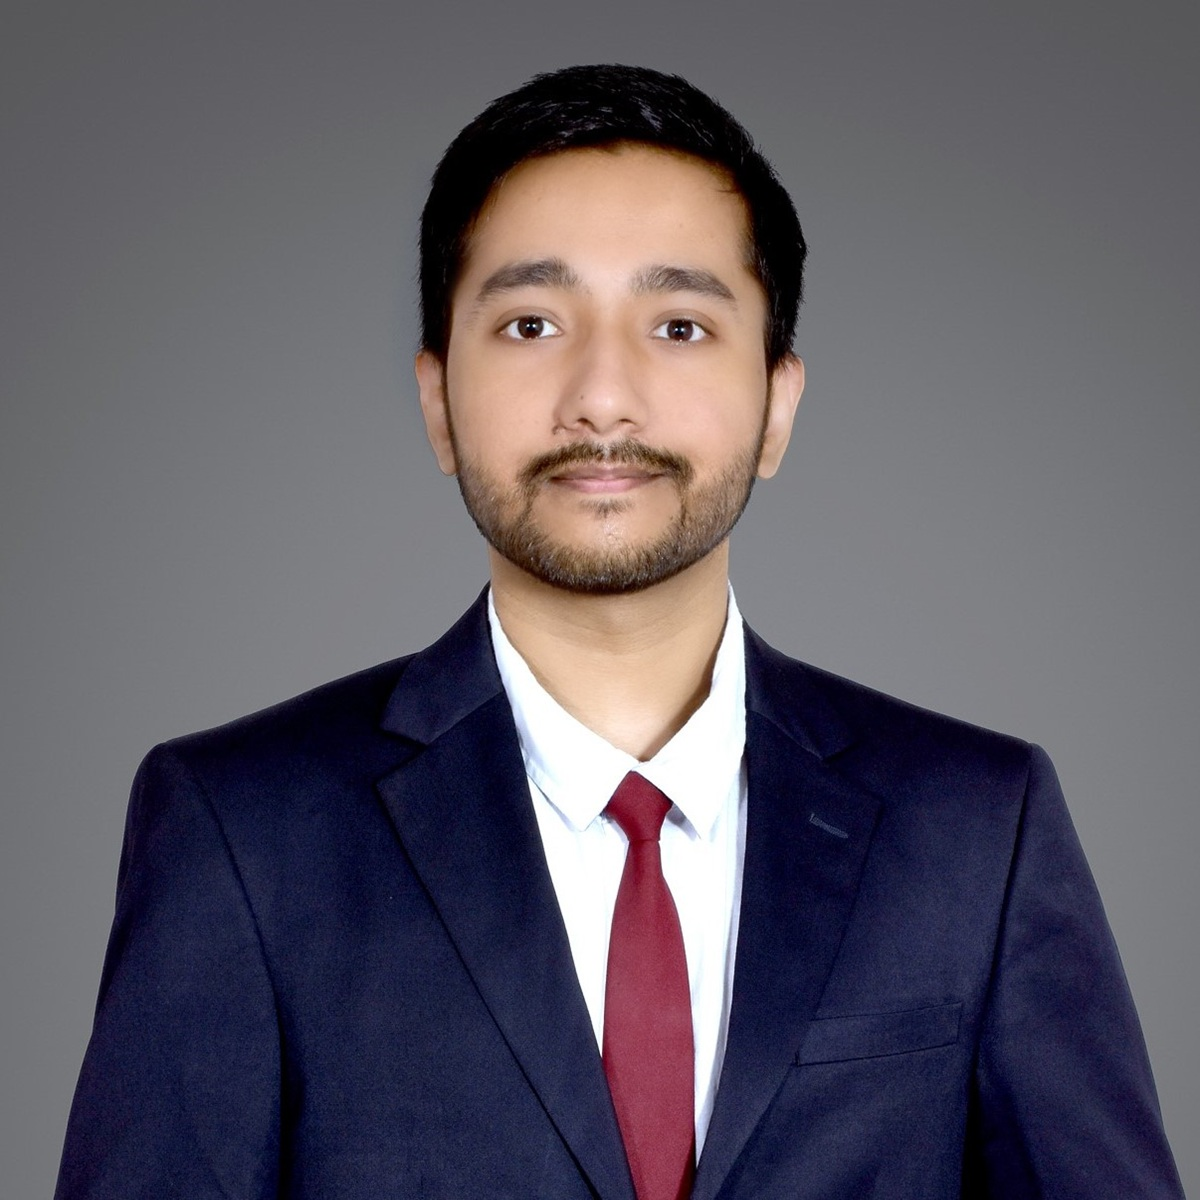
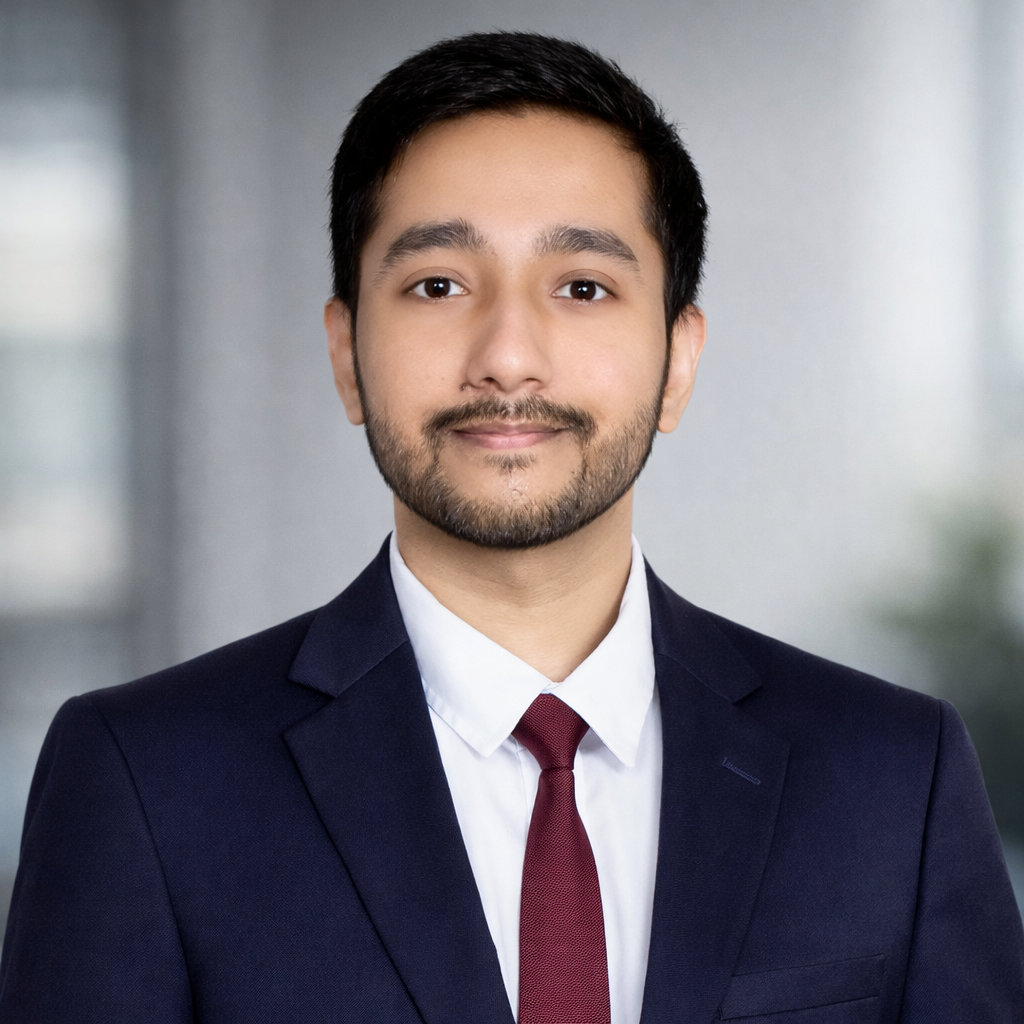
[master] Changed photo

diff --git a/index.html b/index.html
@@ -64,7 +64,7 @@
     <section class="hero" id="hero">
       <div class="container hero__inner">
         <div class="hero__content reveal">
-          <p class="hero__eyebrow">Senior Software Engineer &middot; Quantitative Developer</p>
+          <p class="hero__eyebrow">Sr. Software Engineer &middot; Quantitative Developer</p>
           <h1 class="hero__title">
             Hi, I&apos;m <span class="accent">Ravi Mosalpuri</span>
           </h1>